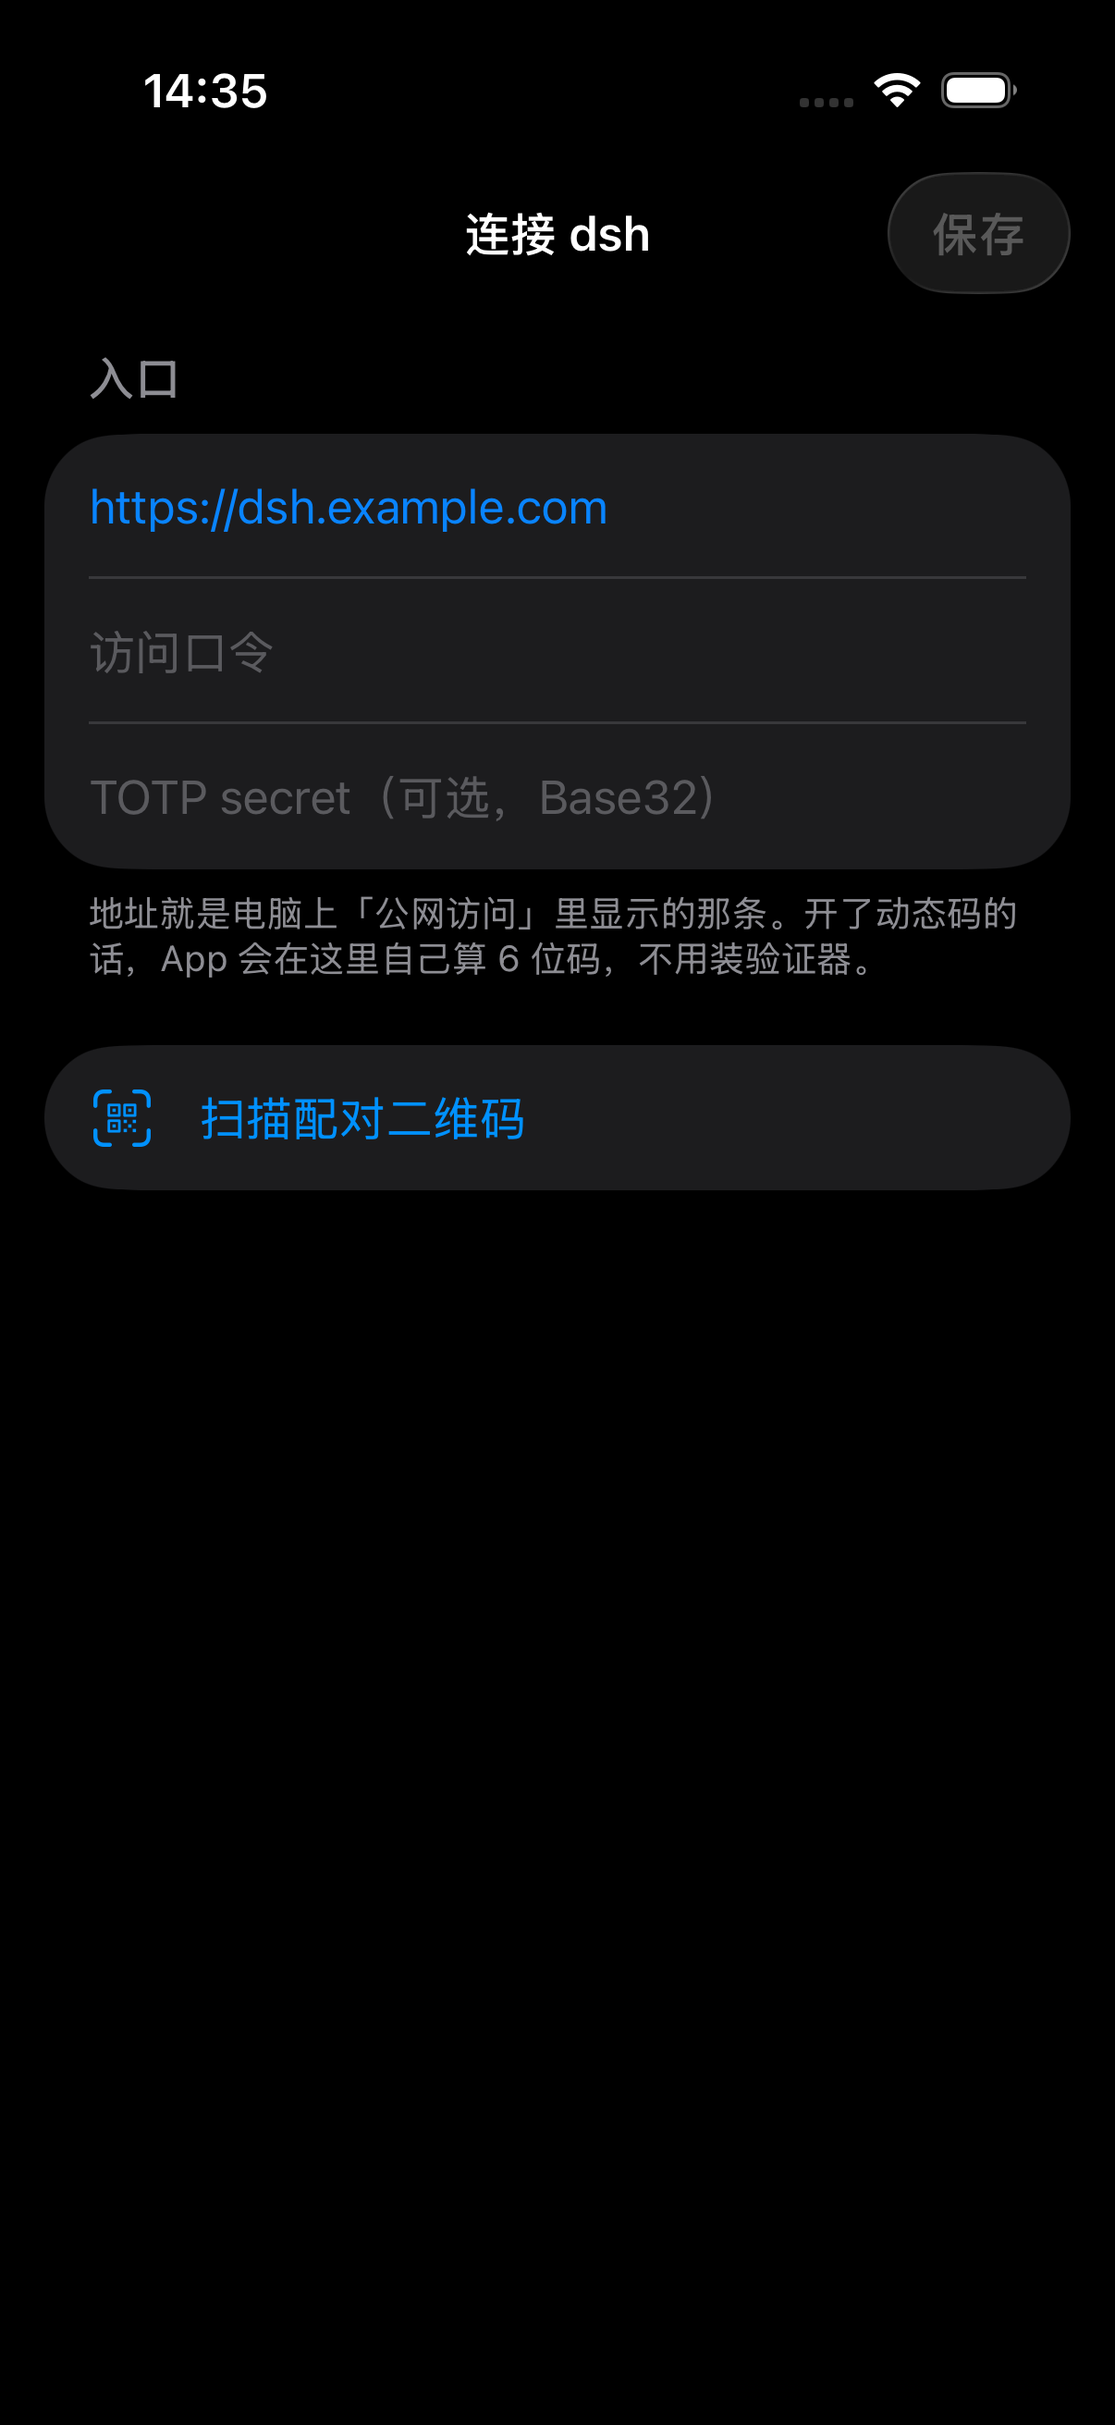
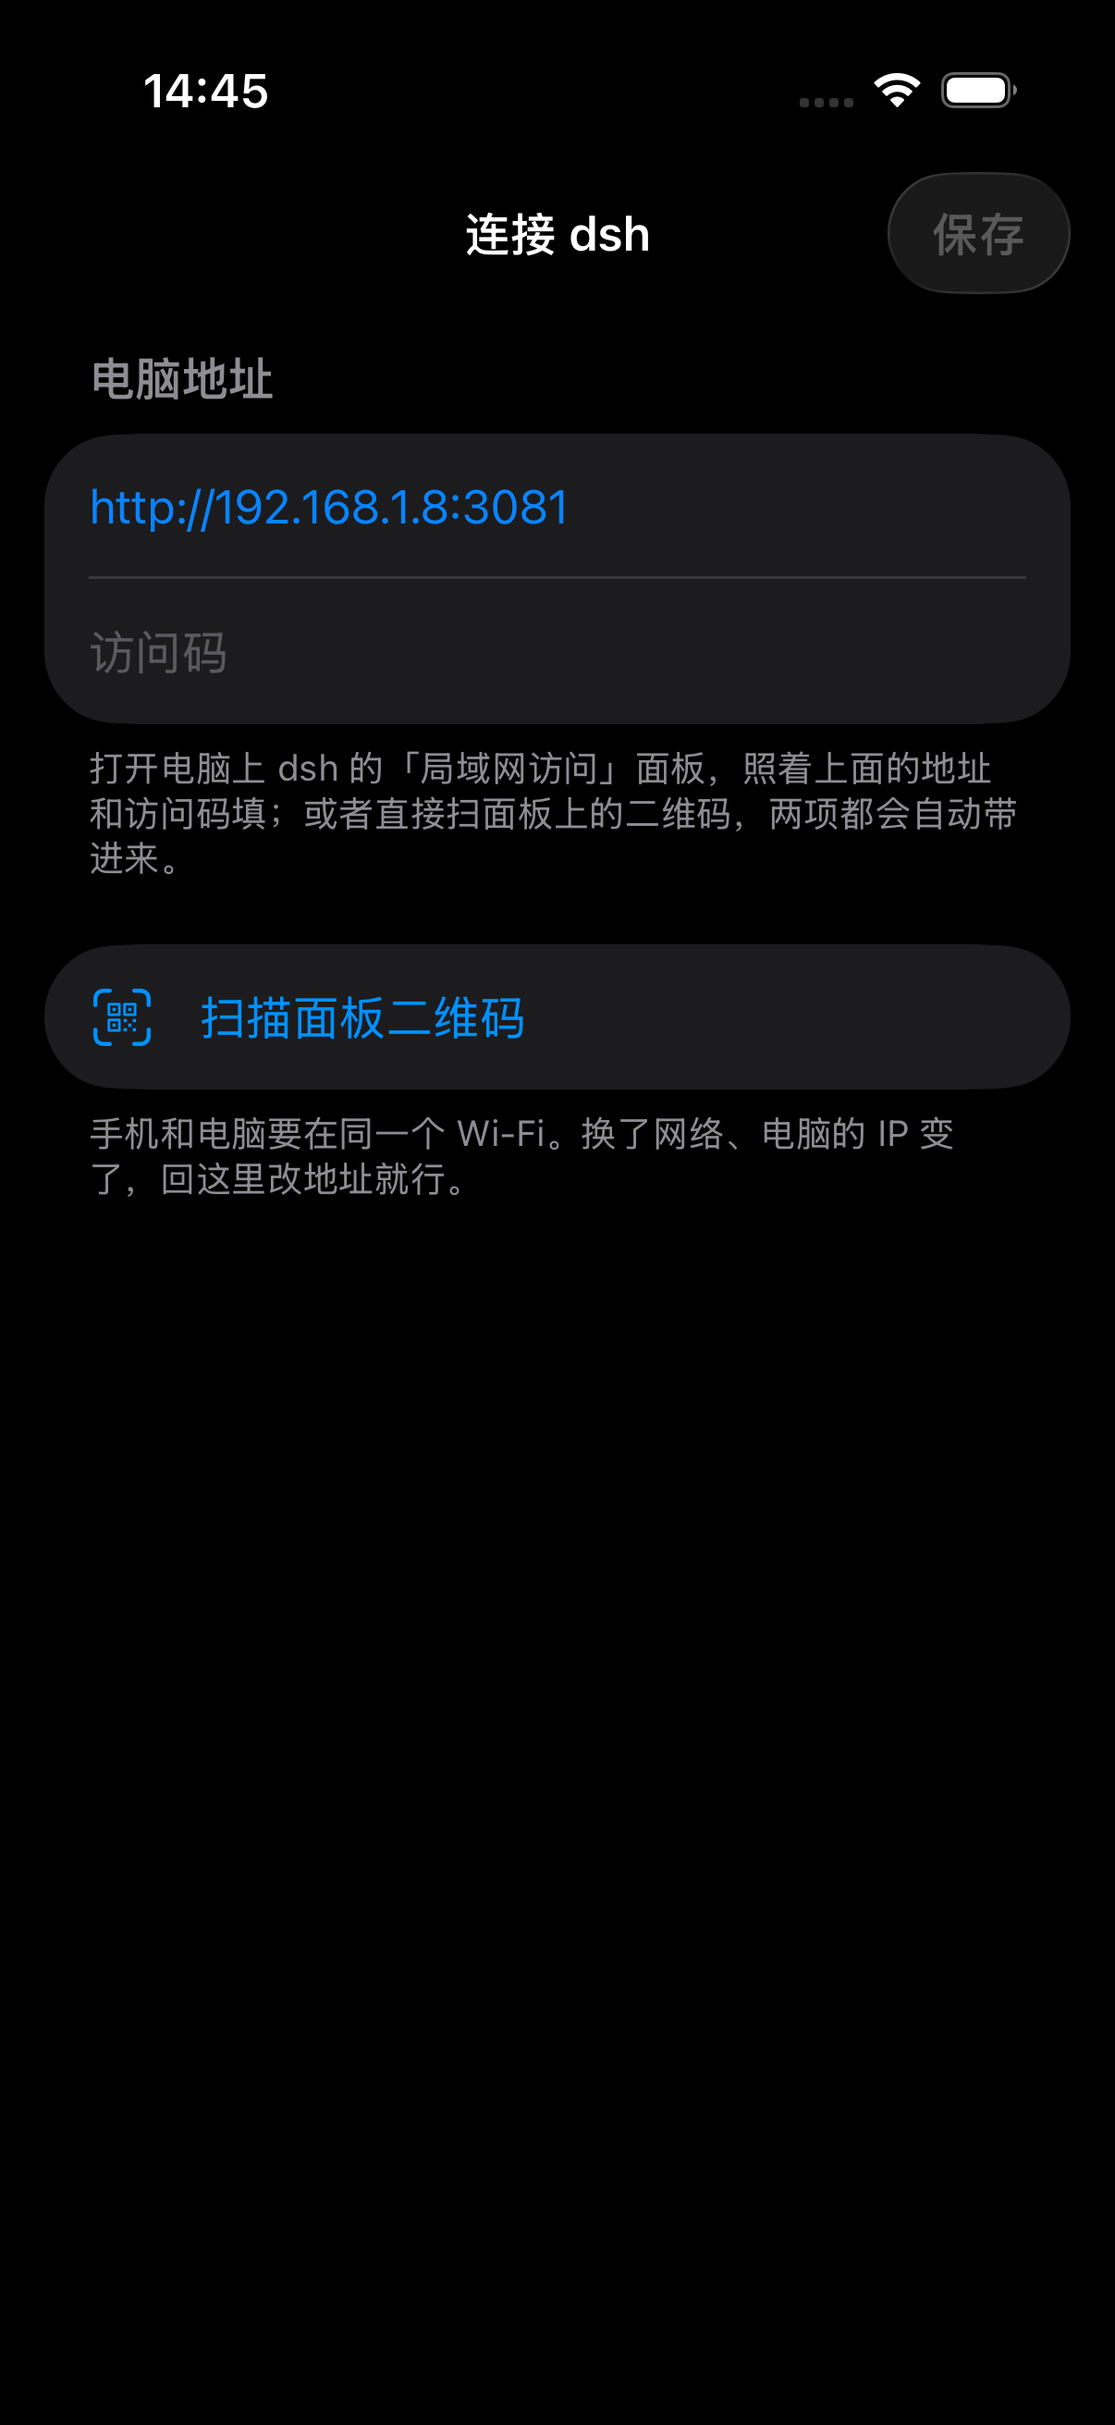
iOS: 改走局域网访问码方案
- 不再调 /api/lan_access.login：直接把 http://<内网IP>:3081/?lan=<码> 交给 WKWebView，
  由插件种 cookie 再 303 跳首页
- 配对页改成「电脑地址 + 访问码」，扫码同时支持 ?lan= 网址与 dshremote:// 自定义 scheme
- 失败态给出「同一 Wi-Fi / 面板是否开启 / 地址是否变化」的提示
- 补 Info.plist：ATS 允许内网明文 HTTP、本地网络用途说明、相机权限
- 设计文档标注当前方向为局域网，公网模式保留为后续规划

Changed region(s): [[0.0307, 0.2471, 0.9818, 0.4943], [0.092, 0.1236, 0.5522, 0.2162], [0.1841, 0.0309, 0.2148, 0.0618]]

diff --git a/ios/DSHRemote/DSHRemote/PairingView.swift b/ios/DSHRemote/DSHRemote/PairingView.swift
@@ -1,7 +1,8 @@
 import SwiftUI
 
-/// 配对信息既能扫码，也能手动填。二维码内容由电脑端插件生成：
-/// `dshremote://pair?url=https%3A%2F%2Fdsh.example.com&password=...&secret=JBSWY3DP...`
+/// 配对信息既能扫码，也能手动填。电脑端的「局域网访问」面板会给出两种码：
+/// - 网址：`http://192.168.1.8:3081/?lan=AB12CD34`
+/// - 自定义：`dshremote://pair?url=http%3A%2F%2F192.168.1.8%3A3081&password=AB12CD34`
 struct PairingView: View {
     @EnvironmentObject private var store: ProfileStore
     @Environment(\.dismiss) private var dismiss
@@ -10,32 +11,30 @@ struct PairingView: View {
 
     @State private var urlText = ""
     @State private var password = ""
-    @State private var secret = ""
     @State private var showScanner = false
     @State private var error: String?
 
     var body: some View {
         Form {
             Section {
-                TextField("https://dsh.example.com", text: $urlText)
+                TextField("http://192.168.1.8:3081", text: $urlText)
                     .textInputAutocapitalization(.never)
                     .autocorrectionDisabled()
                     .keyboardType(.URL)
-                SecureField("访问口令", text: $password)
-                TextField("TOTP secret（可选，Base32）", text: $secret)
-                    .textInputAutocapitalization(.characters)
+                SecureField("访问码", text: $password)
+                    .textInputAutocapitalization(.never)
                     .autocorrectionDisabled()
             } header: {
-                Text("入口")
+                Text("电脑地址")
             } footer: {
-                Text("地址就是电脑上「公网访问」里显示的那条。开了动态码的话，App 会在这里自己算 6 位码，不用装验证器。")
+                Text("打开电脑上 dsh 的「局域网访问」面板，照着上面的地址和访问码填；或者直接扫面板上的二维码，两项都会自动带进来。")
             }
 
             Section {
                 Button {
                     showScanner = true
                 } label: {
-                    Label("扫描配对二维码", systemImage: "qrcode.viewfinder")
+                    Label("扫描面板二维码", systemImage: "qrcode.viewfinder")
                 }
 
                 if let profile = editing {
@@ -46,6 +45,8 @@ struct PairingView: View {
                         Label("删除这台设备上的配置", systemImage: "trash")
                     }
                 }
+            } footer: {
+                Text("手机和电脑要在同一个 Wi-Fi。换了网络、电脑的 IP 变了，回这里改地址就行。")
             }
 
             if let error {
@@ -78,7 +79,6 @@ struct PairingView: View {
         guard let editing else { return }
         urlText = editing.baseURL
         password = editing.password
-        secret = editing.totpSecret ?? ""
     }
 
     private func apply(_ text: String) {
@@ -88,7 +88,6 @@ struct PairingView: View {
         }
         urlText = payload.url
         if !payload.password.isEmpty { password = payload.password }
-        if let payloadSecret = payload.secret { secret = payloadSecret }
         error = nil
     }
 
@@ -102,8 +101,8 @@ struct PairingView: View {
         let profile = RemoteProfile(
             id: editing?.id ?? UUID().uuidString,
             baseURL: value,
-            password: password,
-            totpSecret: secret.trimmed.isEmpty ? nil : secret.trimmed
+            password: password.trimmed,
+            totpSecret: editing?.totpSecret
         )
         store.save(profile)
         dismiss()
@@ -127,10 +126,18 @@ enum PairingLink {
             }
             guard let url = items["url"], !url.isEmpty else { return nil }
             let secret = items["secret"].flatMap { $0.isEmpty ? nil : $0 }
-            return Payload(url: url, password: items["password"] ?? "", secret: secret)
+            let code = items["password"] ?? items["code"] ?? ""
+            return Payload(url: url, password: code, secret: secret)
         }
         if raw.lowercased().hasPrefix("http://") || raw.lowercased().hasPrefix("https://") {
-            return Payload(url: raw, password: "", secret: nil)
+            guard var components = URLComponents(string: raw) else { return nil }
+            var code = ""
+            if let items = components.queryItems {
+                code = items.first { $0.name == "lan" }?.value ?? ""
+                components.queryItems = items.filter { $0.name != "lan" }
+            }
+            guard let cleaned = components.string, !cleaned.isEmpty else { return nil }
+            return Payload(url: cleaned, password: code, secret: nil)
         }
         return nil
     }

diff --git a/ios/DSHRemote/DSHRemote/RootView.swift b/ios/DSHRemote/DSHRemote/RootView.swift
@@ -65,27 +65,43 @@ struct RemoteScreen: View {
         .sheet(isPresented: $showSettings) {
             NavigationStack { PairingView(editing: profile) }
         }
-        .task(id: profile.id) { await connect() }
+        .task(id: profile.id) { connect() }
         .onChange(of: store.profile) { _, next in
             guard next != nil else { return }
-            Task { await connect() }
+            connect()
+        }
+        .onChange(of: model.didLoad) { _, finished in
+            if finished { phase = .ready }
+        }
+        .onChange(of: model.lastError) { _, failure in
+            guard let failure else { return }
+            phase = .failed
+            message = Self.friendly(failure, host: profile.hostLabel)
         }
     }
 
-    private func connect() async {
+    /// 局域网模式下不需要登录接口：`?lan=<访问码>` 会让插件种好 cookie 再跳首页。
+    private func connect() {
         phase = .connecting
         message = ""
-        defer { }
-
-        do {
-            let cookie = try await RemoteLogin.login(profile: profile)
-            guard let url = profile.url else { throw LoginError.badURL }
-            await model.load(url: url, cookies: [cookie])
-            phase = .ready
-        } catch {
-            message = error.localizedDescription
+        model.didLoad = false
+        guard let url = profile.entryURL else {
             phase = .failed
+            message = "地址格式不对，应该是 http://192.168.x.x:3081 这样。"
+            return
         }
+        Task { await model.load(url: url, cookies: []) }
+    }
+
+    private static func friendly(_ raw: String, host: String) -> String {
+        let lower = raw.lowercased()
+        if lower.contains("could not connect") || lower.contains("connection") || lower.contains("timed out") {
+            return "连不上 \(host)。确认手机和电脑在同一个 Wi-Fi，电脑上的「局域网访问」是开着的，地址和访问码与面板一致。"
+        }
+        if lower.contains("app transport security") {
+            return "系统拦住了明文 HTTP 请求，请在系统设置里允许本机网络访问。"
+        }
+        return raw
     }
 
     private func overlay(message: String, retry: Bool) -> some View {
@@ -102,7 +118,7 @@ struct RemoteScreen: View {
                 .multilineTextAlignment(.center)
                 .foregroundStyle(.secondary)
             Button("重试") {
-                Task { await connect() }
+                connect()
             }
             .buttonStyle(.borderedProminent)
             .opacity(retry ? 1 : 0)

diff --git a/ios/DSHRemote/DSHRemote/ProfileStore.swift b/ios/DSHRemote/DSHRemote/ProfileStore.swift
@@ -1,17 +1,29 @@
 import Foundation
 
-/// 存在钥匙串里的连接配置。口令和 TOTP secret 都不落 UserDefaults。
+/// 存在钥匙串里的连接配置。访问码不落 UserDefaults。
 struct RemoteProfile: Codable, Equatable, Identifiable {
     var id: String = UUID().uuidString
-    /// 入口地址，形如 `https://dsh.example.com` 或 `http://192.168.1.8:3081`。
+    /// 入口地址，形如 `http://192.168.1.8:3081`。
     var baseURL: String
-    /// 访问口令（公网模式下是登录密码）。
+    /// 局域网访问码（面板上的 `?lan=` 那串）。
     var password: String
-    /// Base32 的 TOTP secret；为空表示这个入口没开动态码。
+    /// 公网模式的 TOTP secret，局域网模式留空。
     var totpSecret: String?
 
     var url: URL? { URL(string: baseURL) }
     var hostLabel: String { url?.host ?? baseURL }
+
+    /// 真正要加载的地址：访问码拼成 `?lan=`，和电脑上二维码里的链接一致。
+    var entryURL: URL? {
+        guard var components = URLComponents(string: baseURL) else { return nil }
+        if !password.isEmpty {
+            var items = components.queryItems ?? []
+            items.removeAll { $0.name == "lan" }
+            items.append(URLQueryItem(name: "lan", value: password))
+            components.queryItems = items
+        }
+        return components.url
+    }
 }
 
 @MainActor
@@ -21,7 +33,12 @@ final class ProfileStore: ObservableObject {
     private let service = "com.chenglang.dshremote"
     private let account = "profile"
 
-    init() { reload() }
+    init() {
+        reload()
+        #if DEBUG
+        seedForUITestIfNeeded()
+        #endif
+    }
 
     func reload() {
         guard let data = Keychain.load(service: service, account: account) else {
@@ -41,7 +58,14 @@ final class ProfileStore: ObservableObject {
     func clear() {
         Keychain.delete(service: service, account: account)
         profile = nil
-        // 顺手把网页 cookie 也清掉，避免退出后再打开还是已登录状态。
-        URLCache.shared.removeAllCachedResponses()
     }
+
+    #if DEBUG
+    /// 只在 Debug 生效：`-e2e <url> <code>` 直接写入配置，给自动化截图用。
+    private func seedForUITestIfNeeded() {
+        let args = ProcessInfo.processInfo.arguments
+        guard let index = args.firstIndex(of: "-e2e"), index + 2 < args.count else { return }
+        save(RemoteProfile(baseURL: args[index + 1], password: args[index + 2], totpSecret: nil))
+    }
+    #endif
 }

diff --git a/ios/DSHRemote/DSHRemote/RemoteWebView.swift b/ios/DSHRemote/DSHRemote/RemoteWebView.swift
@@ -7,6 +7,8 @@ final class WebModel: NSObject, ObservableObject {
     let webView: WKWebView
     @Published var isLoading = false
     @Published var lastError: String?
+    /// 首屏加载完成（`?lan=` 换完 cookie、跳到 dsh 首页之后）。
+    @Published var didLoad = false
 
     override init() {
         let configuration = WKWebViewConfiguration()
@@ -30,7 +32,9 @@ final class WebModel: NSObject, ObservableObject {
     }
 
     func reload() {
-        if webView.url == nil, let current = webView.url { webView.load(URLRequest(url: current)) }
+        if webView.url == nil {
+            return
+        }
         webView.reload()
     }
 
@@ -51,6 +55,7 @@ extension WebModel: WKNavigationDelegate {
 
     func webView(_ webView: WKWebView, didFinish navigation: WKNavigation!) {
         isLoading = false
+        didLoad = true
     }
 
     func webView(_ webView: WKWebView, didFail navigation: WKNavigation!, withError error: Error) {

diff --git a/ios/DSHRemote/README.md b/ios/DSHRemote/README.md
@@ -1,7 +1,7 @@
 # DSH Remote（iOS）
 
-用 iPhone 直接打开家里的 dsh：App 自带登录（口令 + TOTP），登录后把 dsh 的网页版装在
-`WKWebView` 里，操作和电脑上一致。
+用 iPhone 直接打开电脑上的 dsh：手机和电脑连同一个 Wi-Fi，填一次地址和访问码，
+之后每次打开 App 就是全屏的 dsh 网页版，操作和电脑上一致。
 
 ## 跑起来
 
@@ -10,43 +10,51 @@ open ios/DSHRemote/DSHRemote.xcodeproj
 ```
 
 - 选自己的 Apple ID 团队（Signing & Capabilities → Team），真机需要它来签名。
-- 模拟器直接 `⌘R` 就能看到配对页（已用 Xcode 27.1 / iOS 27.1 模拟器验证可构建、可启动）。
-- 第一次打开：填入口地址（电脑上「公网访问」显示的那条）+ 访问口令，或扫电脑上的配对二维码。
+- 模拟器直接 `⌘R`；真机第一次运行会弹「允许访问本地网络」，要选允许，否则连不上电脑。
+- 第一次打开：打开电脑上的「局域网访问」面板，把地址（`http://192.168.x.x:3081`）和访问码
+  填进 App，或者直接扫面板上的二维码——两样都会自动带进来。
 
-## 它做了什么
+## 局域网模式怎么工作
+
+电脑端的 `lan_access` 插件在 `3081` 端口上做鉴权代理，访问码既可以写在 URL 里
+（`http://192.168.1.8:3081/?lan=AB12CD34`），也会在首次访问后种成 cookie。
+App 直接把这条 URL 交给 `WKWebView`：代理种好 cookie、303 跳回首页，之后就是正常的 dsh。
 
 | 文件 | 职责 |
 | --- | --- |
-| `RootView.swift` | 有配置就直接连，没有就显示配对页；连接失败可重试 |
-| `PairingView.swift` | 手填 / 扫码配对，解析 `dshremote://pair?...` |
+| `RootView.swift` | 有配置就加载，没有就显示配对页；连接中 / 失败重试两种状态 |
+| `PairingView.swift` | 手填地址 + 访问码，或扫码；解析 `?lan=` 与 `dshremote://pair?...` |
 | `QRScannerView.swift` | AVFoundation 扫码 |
-| `LoginClient.swift` | `POST /api/lan_access.login`，拿会话 cookie |
-| `RemoteWebView.swift` | WKWebView，把 cookie 塞进容器后加载 dsh |
-| `TOTP.swift` | RFC 6238，30 秒 / 6 位 / SHA1；App 自己算码，不依赖验证器 App |
-| `ProfileStore.swift` / `Keychain.swift` | 地址、口令、secret 只进钥匙串 |
+| `RemoteWebView.swift` | WKWebView 容器，首屏加载完成/失败回调 |
+| `ProfileStore.swift` / `Keychain.swift` | 地址、访问码只进钥匙串 |
+| `LoginClient.swift` / `TOTP.swift` | 公网模式（口令 + TOTP）预留，局域网模式不触发 |
 
-## 和服务端的契约（待实现）
+## 配对码格式
 
-```
-POST {base}/api/lan_access.login
-Content-Type: application/json
-{ "password": "访问口令", "code": "123456", "device": "iOS" }
-
-200 → Set-Cookie: __Host-dsh_pub=<签名>; Path=/; HttpOnly; Secure; SameSite=Lax
-401 → { "ok": false, "error": "口令或动态码不对" }
-```
-
-配对二维码内容（电脑端插件生成）：
+电脑端「局域网访问」面板里的二维码就是这条网址，App 会自己把 `lan` 参数拆出来：
 
 ```
-dshremote://pair?url=https%3A%2F%2Fdsh.example.com&password=...&secret=BASE32SECRET
+http://192.168.1.8:3081/?lan=AB12CD34
 ```
 
-`secret` 可省略（没开动态码时）。二维码里带着口令，所以只在电脑上本地显示，
-不要截图发出去。
+也兼容自定义 scheme（公网模式用，可带 TOTP secret）：
 
-## 还没做的
+```
+dshremote://pair?url=http%3A%2F%2F192.168.1.8%3A3081&password=AB12CD34
+```
 
-- 与服务端 `lan_access` 的「公网模式」联调（登录接口、会话列表、踢人目前都在插件侧，
-  App 只消费登录接口）。
-- 生物识别解锁、多入口（内网 + 公网各一条）切换。
+二维码里带着访问码，只在电脑屏幕上显示，不要截图发出去。
+
+## 边界
+
+- 只在内网可用：出门在外用不了，除非以后接公网隧道（设计见
+  [docs/lan-access-public-design.md](../../docs/lan-access-public-design.md)）。
+- 电脑换网络后 IP 会变，回 App 的设置里改地址即可；访问码不变。
+- 明文 HTTP 走局域网，iOS 的 ATS 已用 `NSAllowsArbitraryLoads` + `NSAllowsLocalNetworking`
+  放行（只发往本机所在网段，不做公网请求）。
+
+## 验证过什么
+
+- `xcodebuild ... -sdk iphonesimulator CODE_SIGNING_ALLOWED=NO build` 通过（Xcode 27.1）。
+- 在 iPhone 17 Pro 模拟器上对着一个本地桩服务跑通：`?lan=` → 303 + `Set-Cookie` → 首页正常渲染，
+  cookie 生效，页面按 Xcode Dark 色板显示。

diff --git a/docs/lan-access-public-design.md b/docs/lan-access-public-design.md
@@ -1,5 +1,8 @@
 # 公网访问 dsh：设计思路
 
+> 当前方向：2026-11-03 起先落**局域网**方案（手机与电脑同一 Wi-Fi，`http://<内网IP>:3081/?lan=<访问码>`）。
+> 本文的公网部分作为后续规划保留，代码尚未实现。
+
 > 现状：`dsh-lan-access` 在 `0.0.0.0:3081` 起一个带访问码的反向代理，转发到
 > `127.0.0.1:3080`。默认只放行内网/回环来源（`isPrivateAddress`），链接形如
 > `http://<内网IP>:3081/?lan=<访问码>`。
